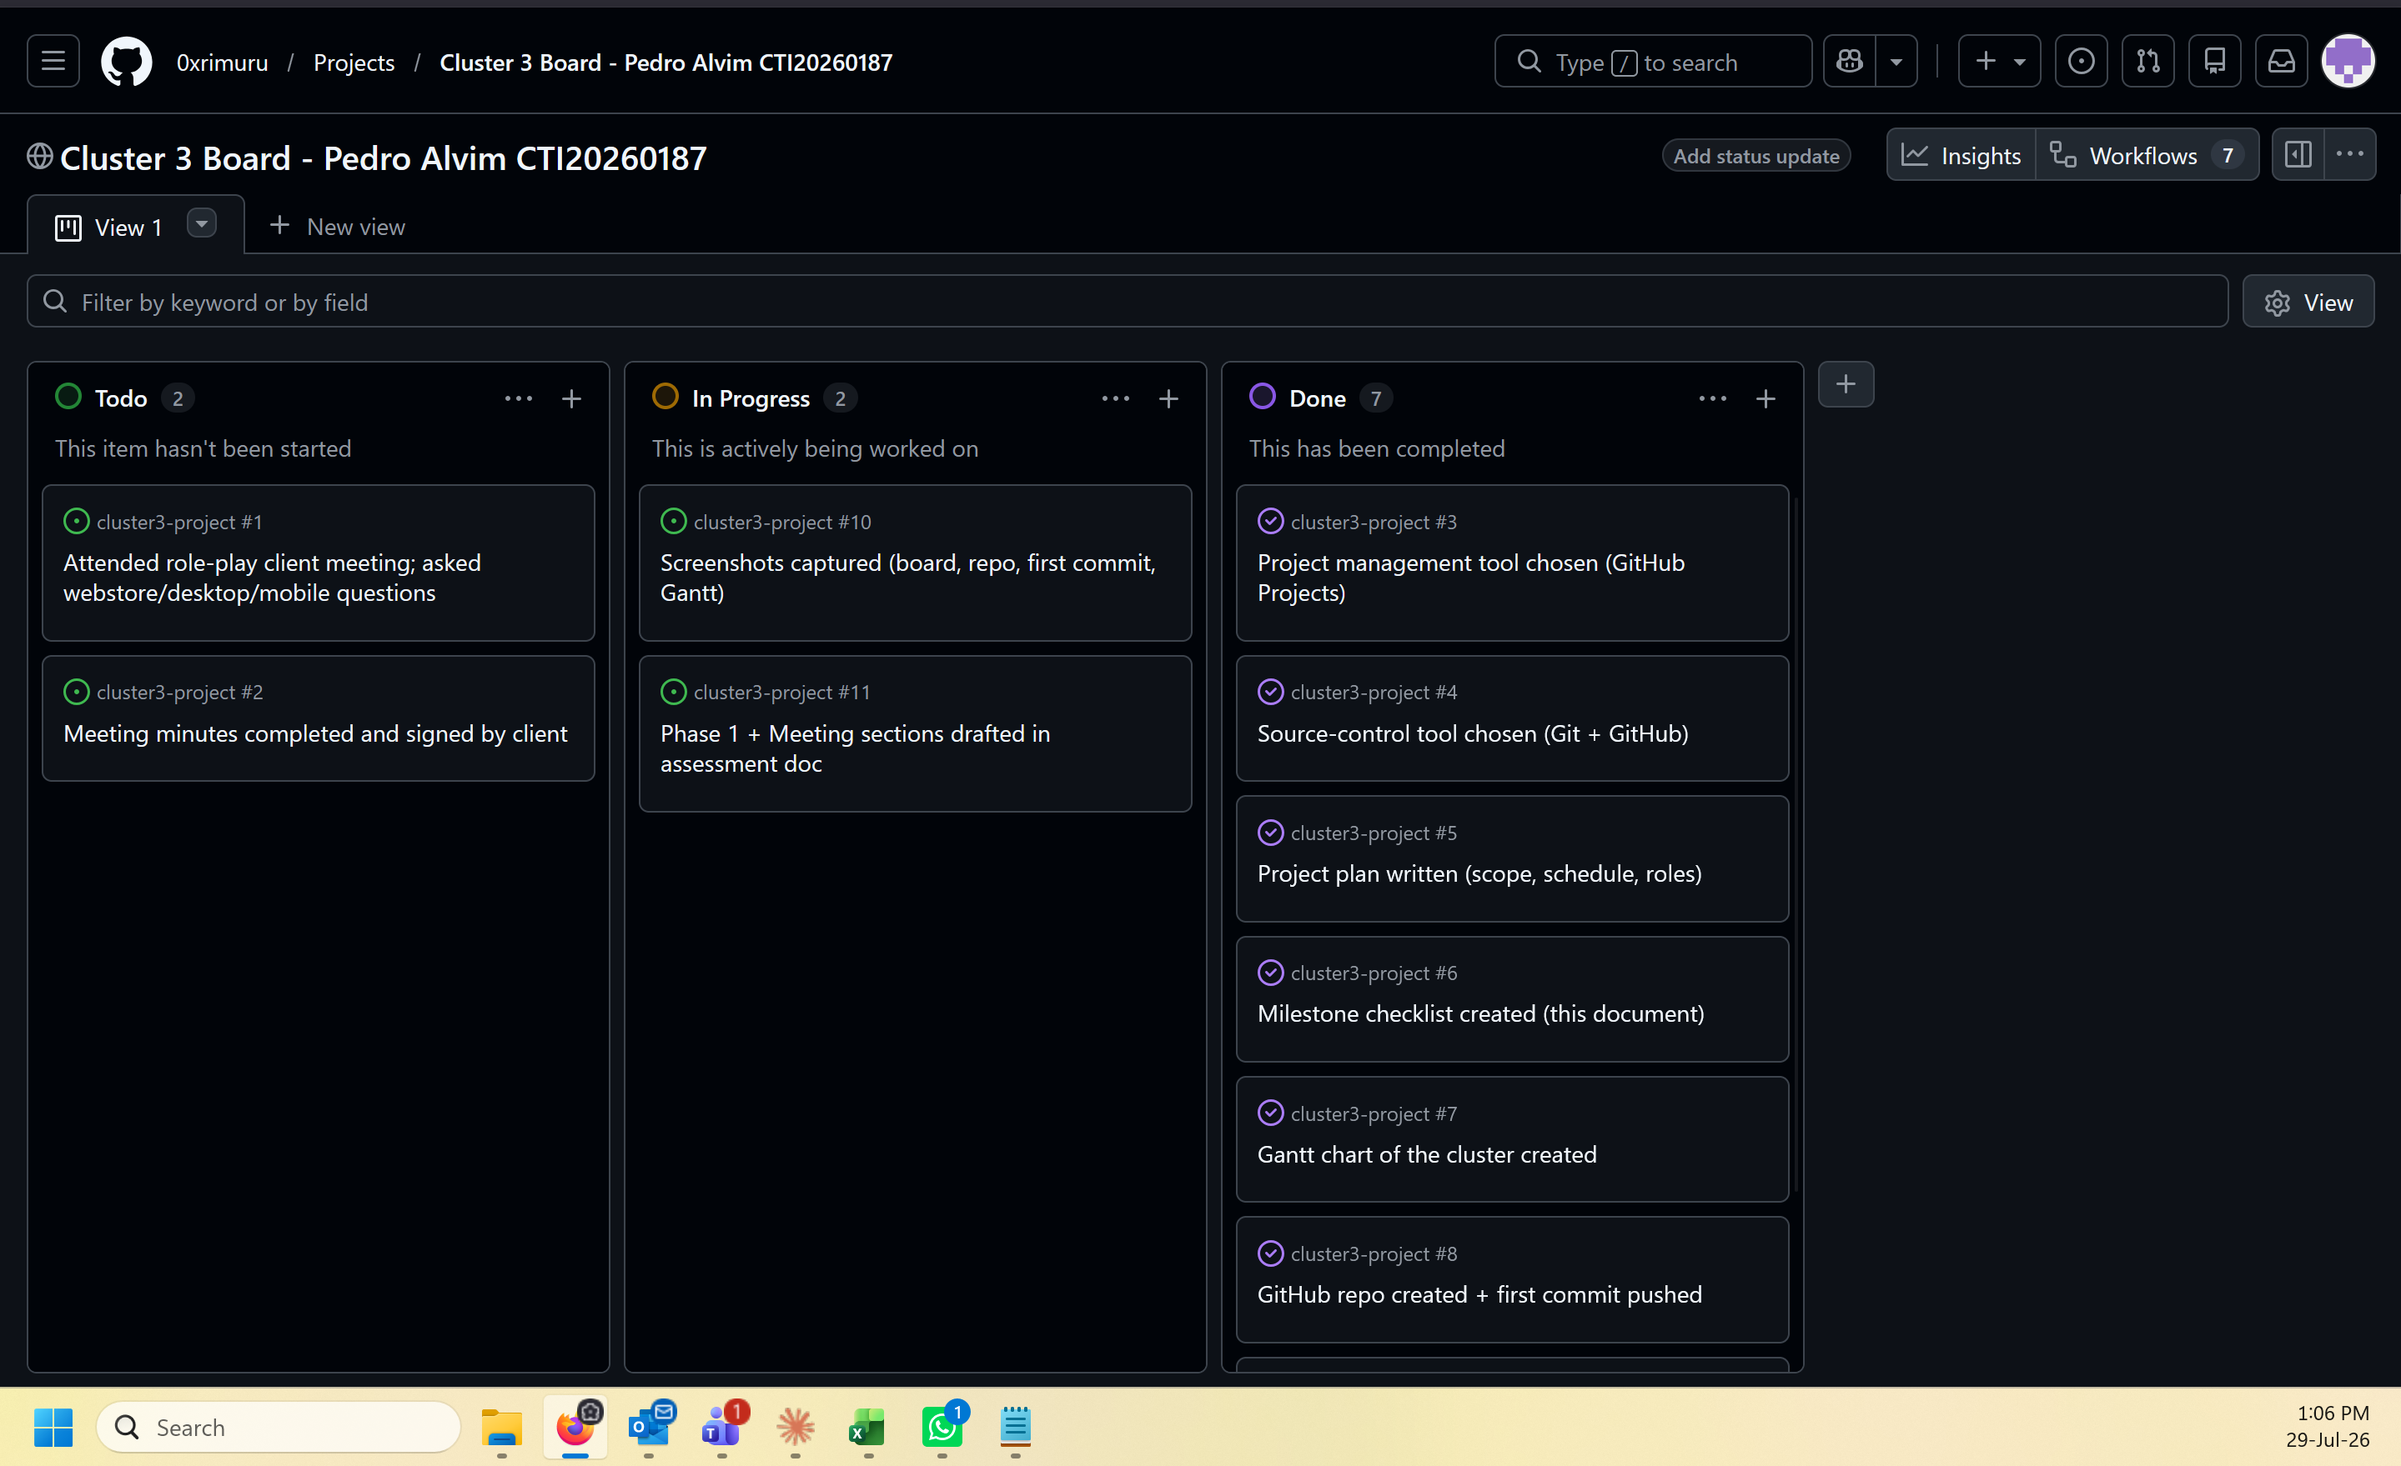
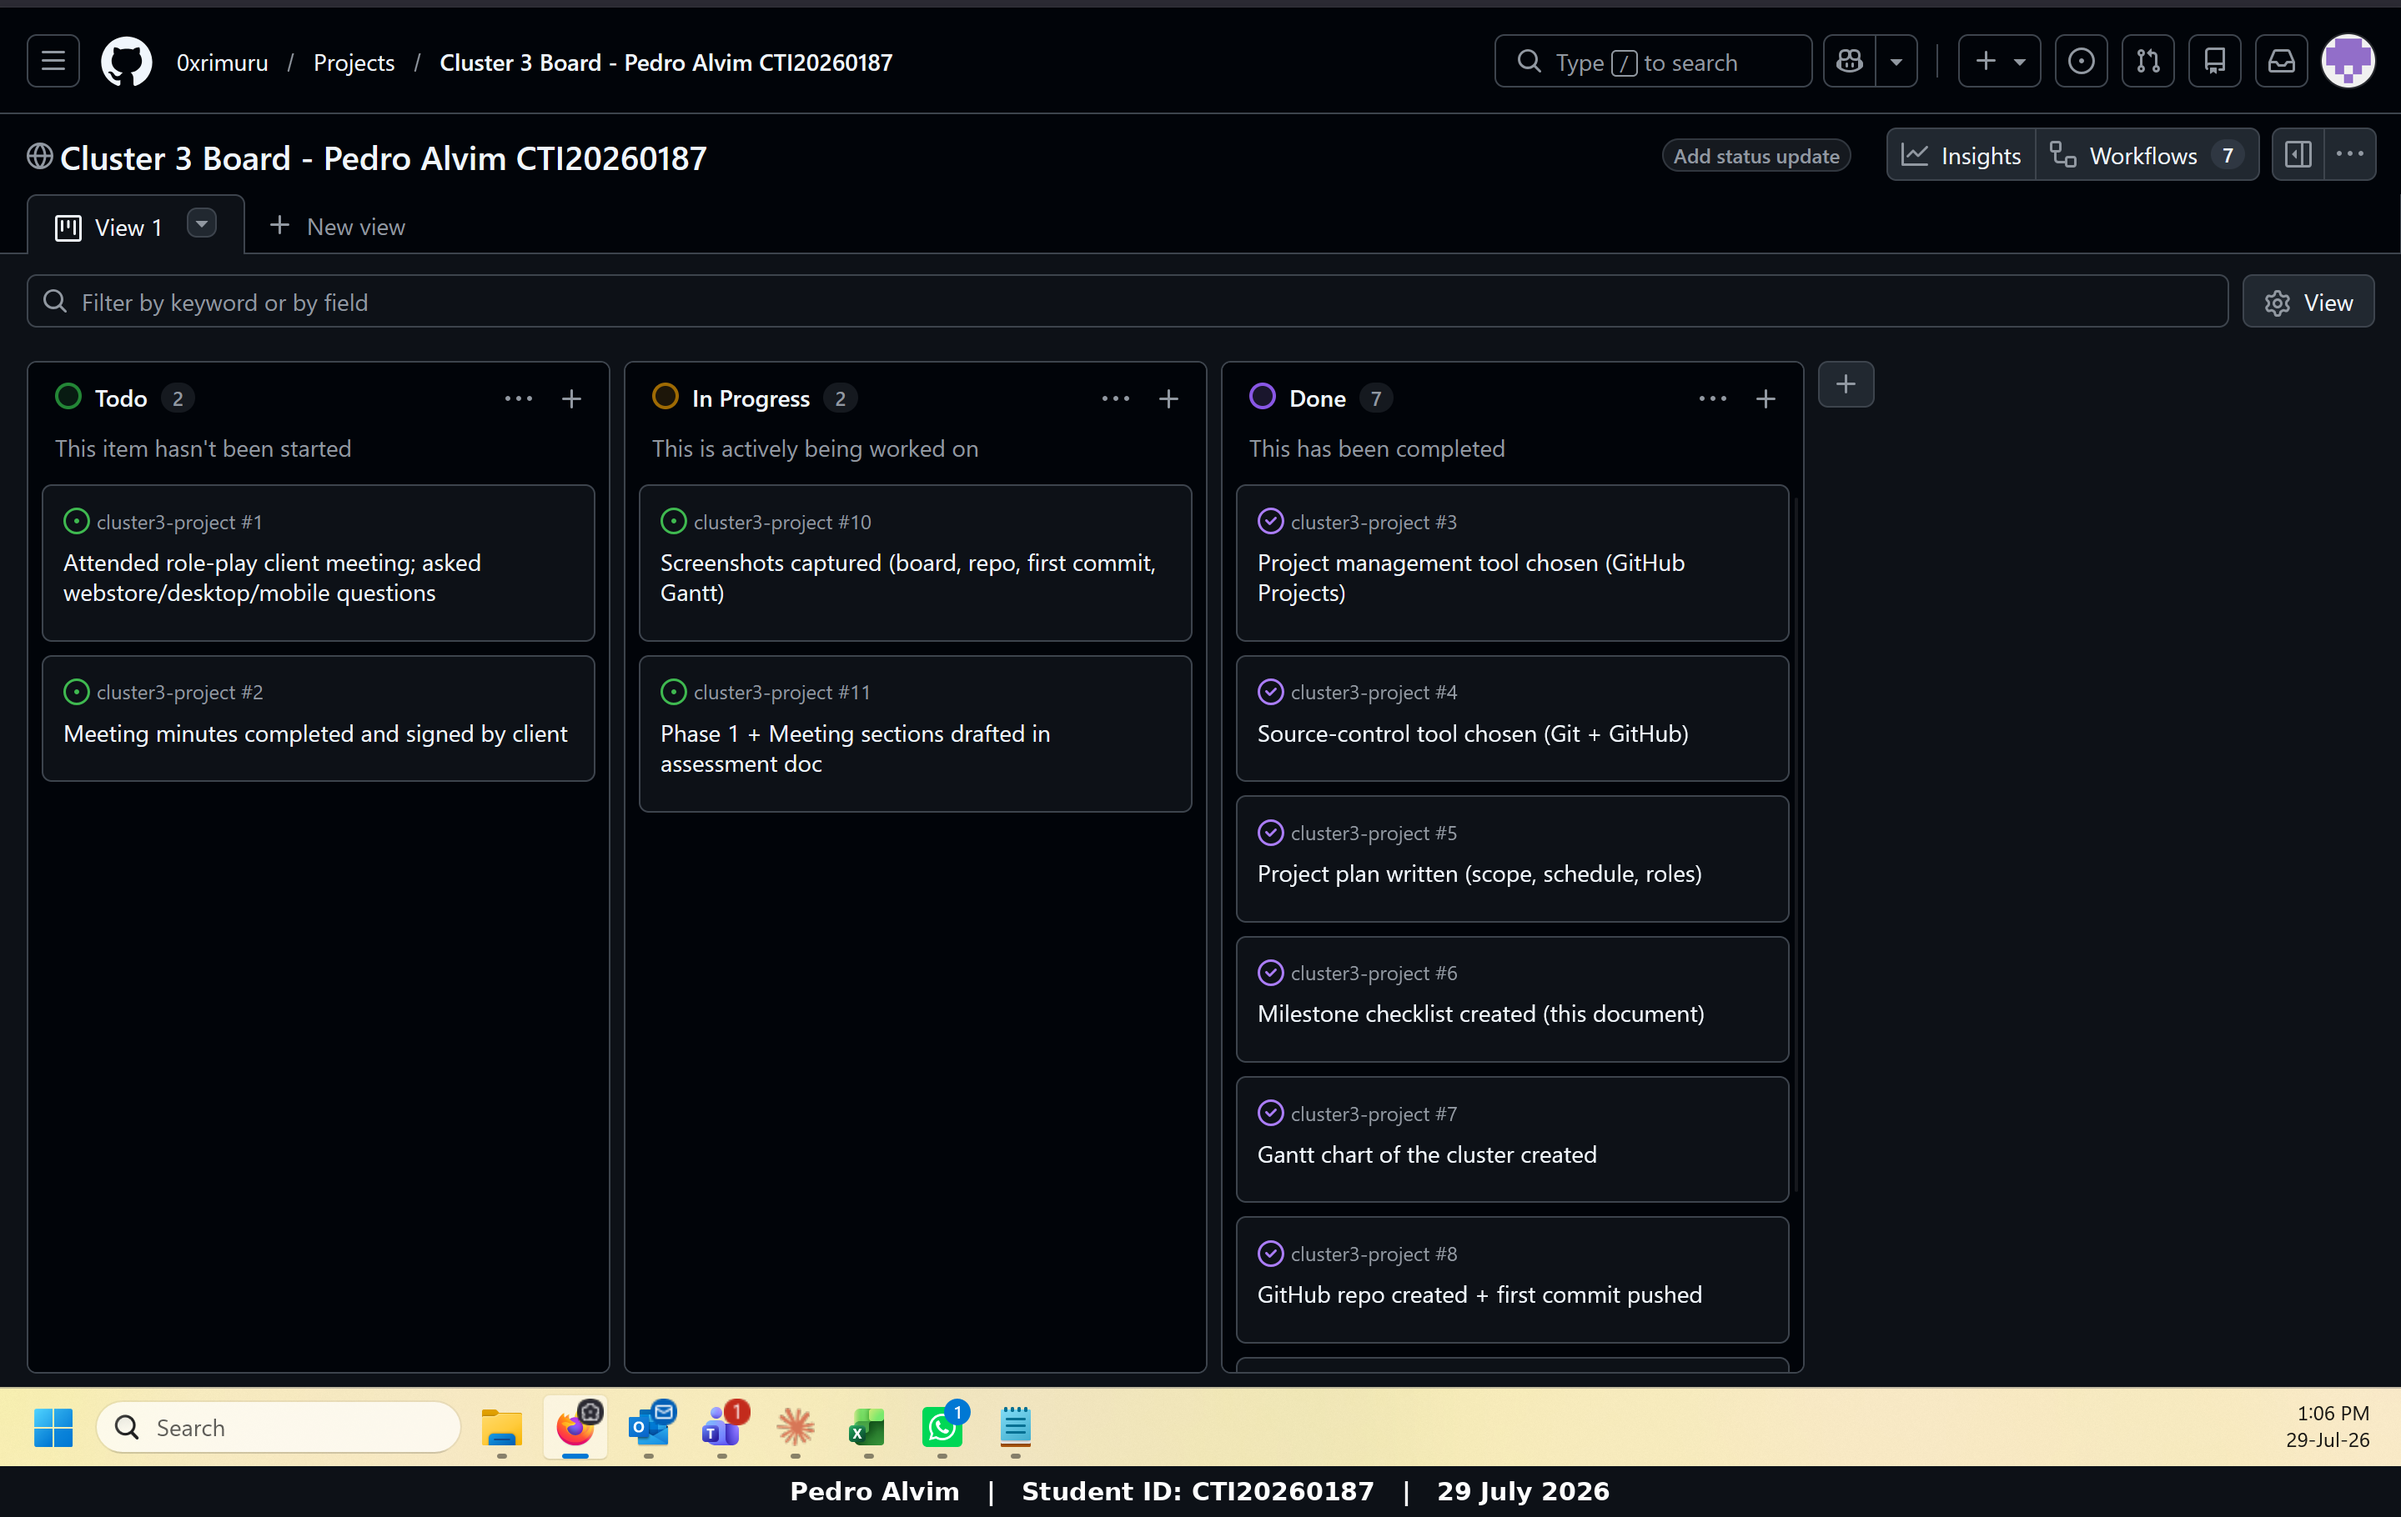
Block 1: stamp name/ID/date on evidence screenshots; tick repo, board, screenshots and Phase 1 checklist items

diff --git a/Block 1/milestone-checklist.md b/Block 1/milestone-checklist.md
@@ -14,10 +14,10 @@ Each block below shows its unit and the **assessment-doc Phase** it maps to.
 - [x] Project plan written (scope, schedule, roles) — done 29/07/2026
 - [x] Milestone checklist created (this document) — done 29/07/2026
 - [x] Gantt chart of the cluster created — done 29/07/2026
-- [ ] GitHub repo created + first commit pushed
-- [ ] Project board set up (To Do / In Progress / Done)
-- [ ] Screenshots captured (board, repo, first commit, Gantt) — name + ID + date on each
-- [ ] Phase 1 + Meeting sections drafted in assessment doc
+- [x] GitHub repo created + first commit pushed — done 29/07/2026
+- [x] Project board set up (To Do / In Progress / Done) — done 29/07/2026
+- [x] Screenshots captured (board, repo, first commit, Gantt) — name + ID + date on each — done 29/07/2026
+- [x] Phase 1 + Meeting sections drafted in assessment doc — done 29/07/2026
 
 ## Block 2 — ICTPRG556: MVC framework (Phase 7) · 15/06–26/06
 - [ ] MVC framework chosen + confirmed with assessor
